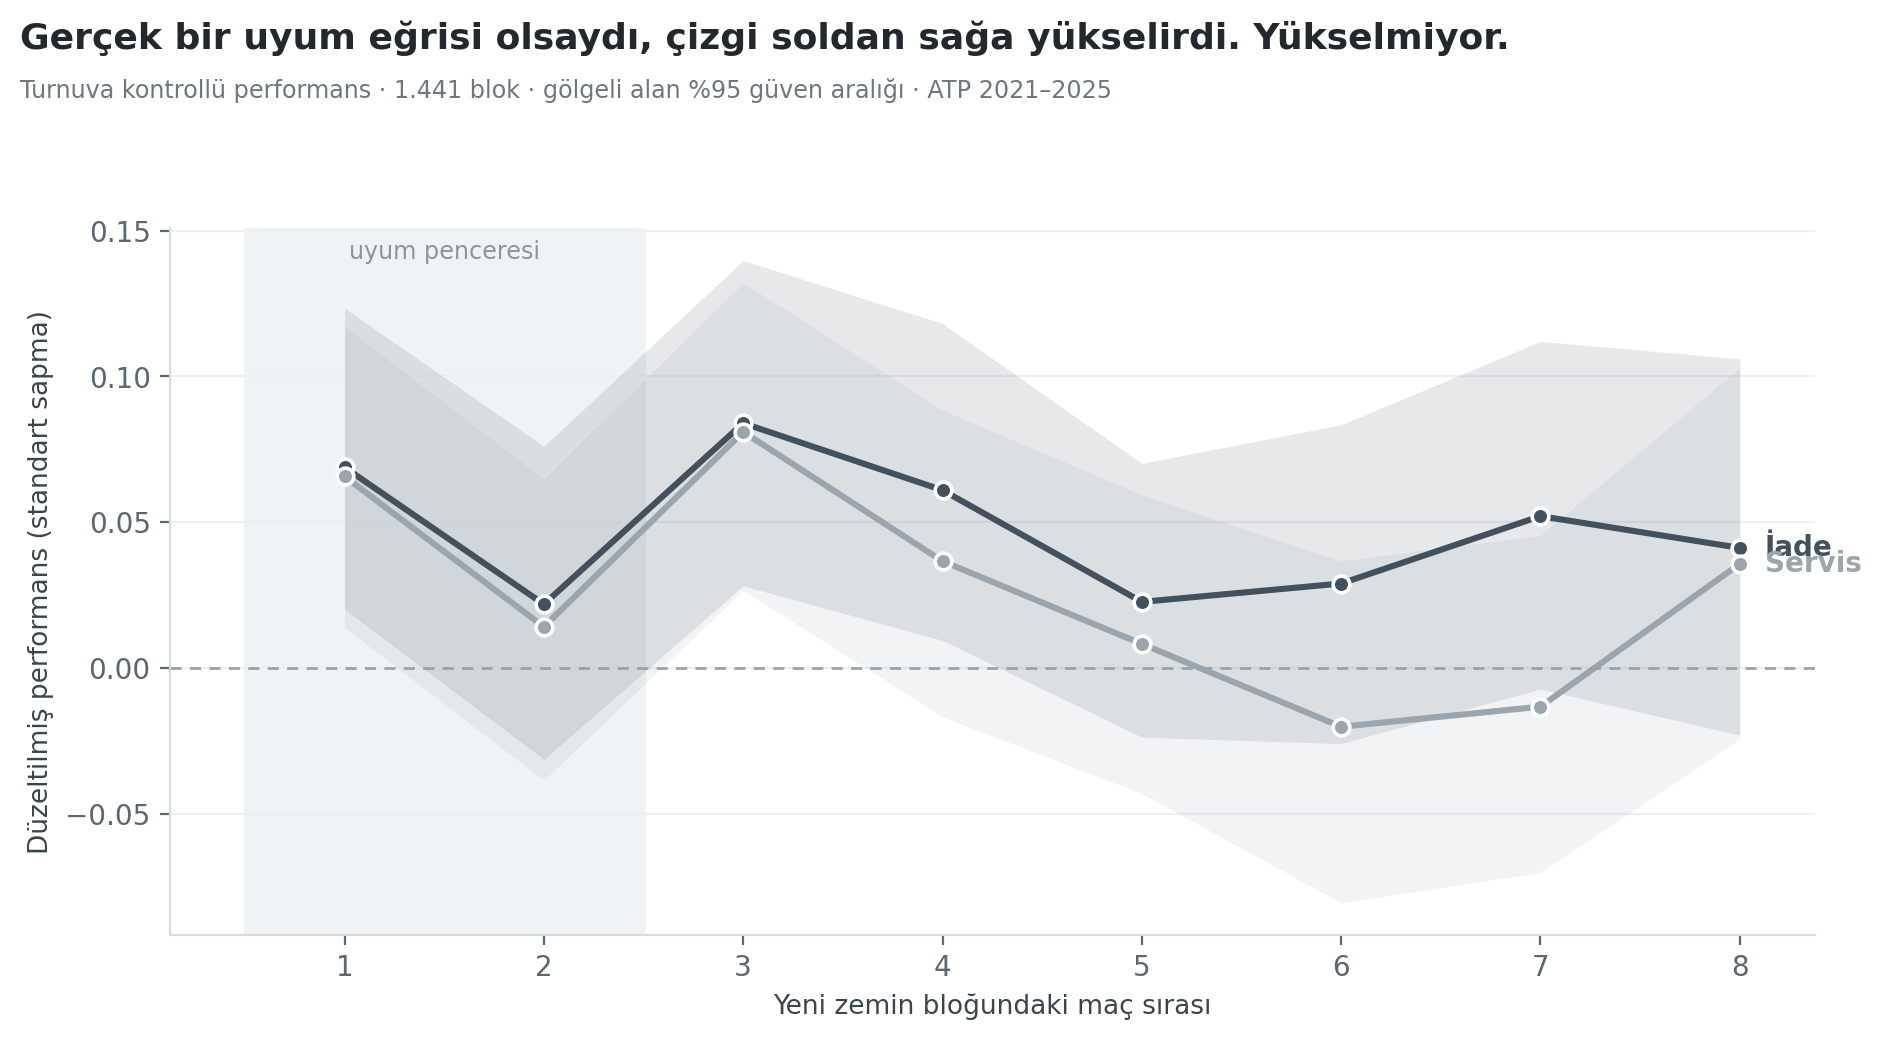
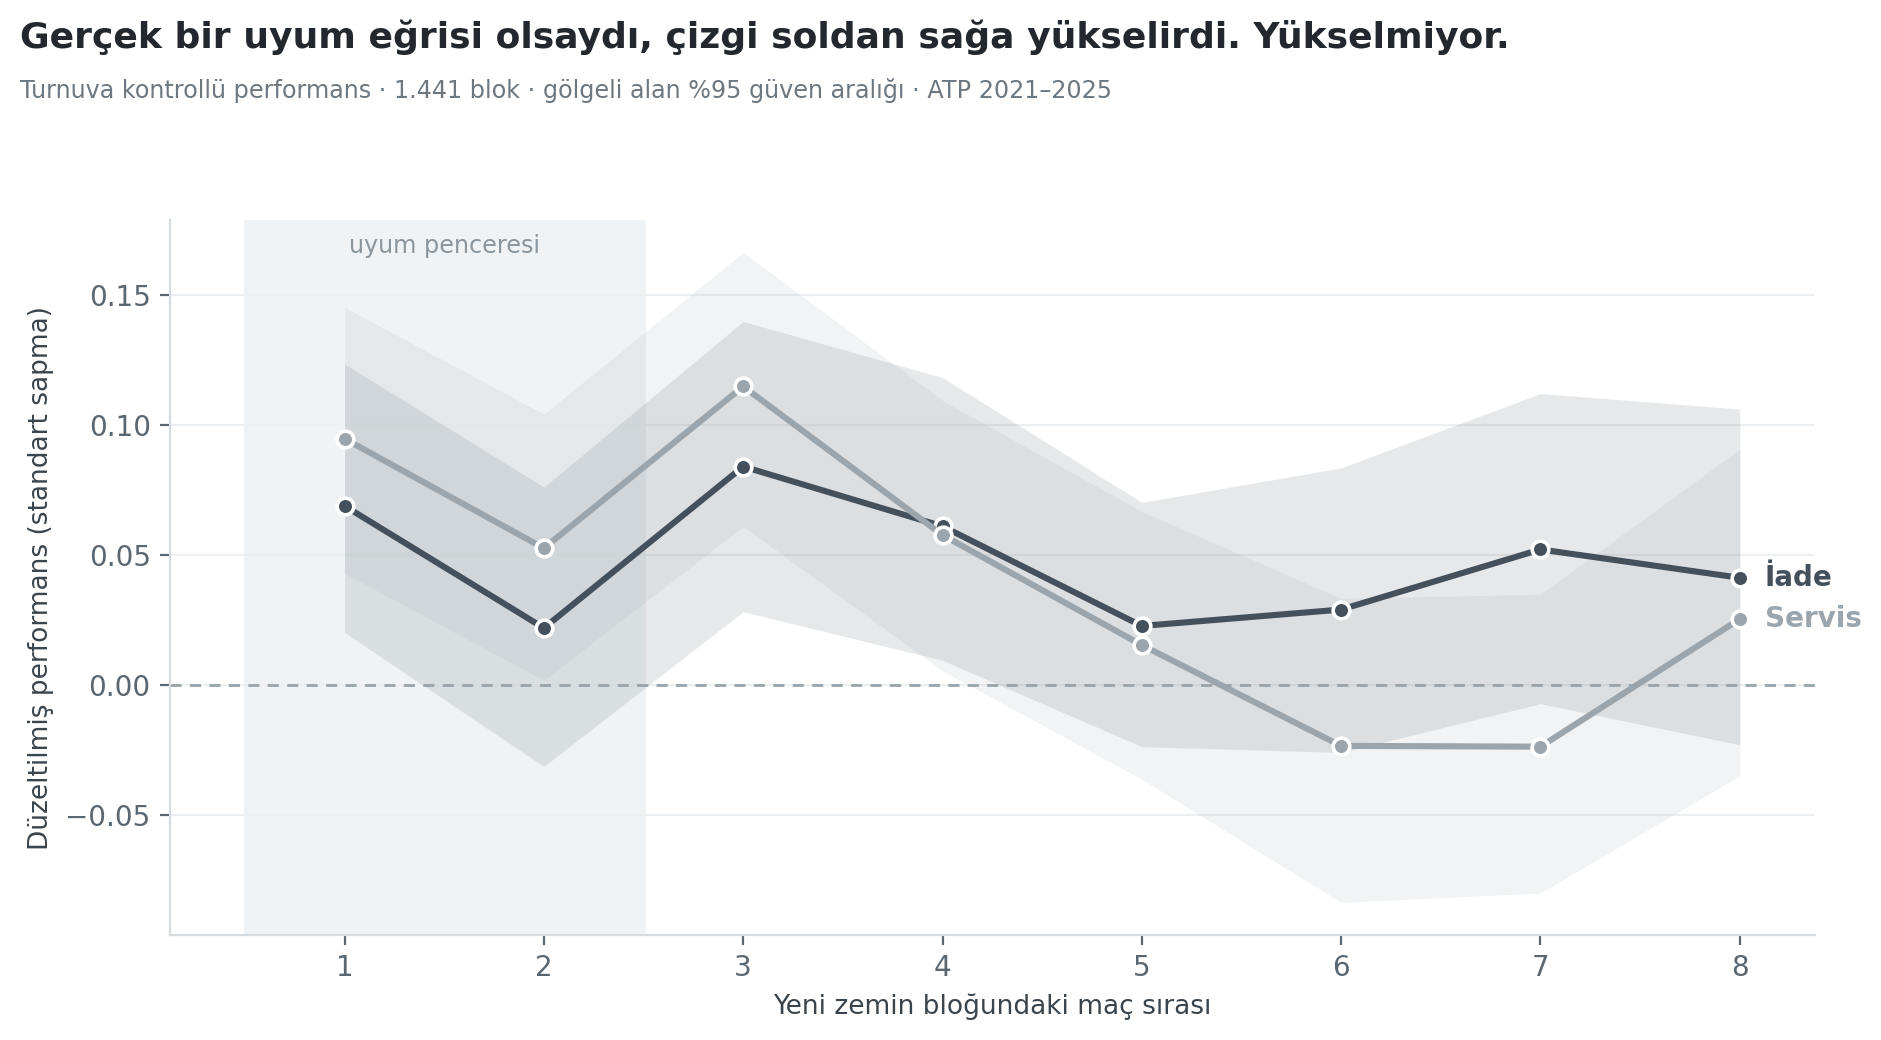
güncelleme

diff --git a/viz.py b/viz.py
@@ -184,55 +184,77 @@ def grafik3(g):
     plt.close(fig)
 
 
-if __name__ == "__main__":
-    g = pd.read_parquet(VERI / "atp_bloklar.parquet")
-    print("[8] Grafikler")
-    grafik1(g); grafik2(g); grafik3(g)
-
-
 # ============================================================
 # GRAFİK 4 — Blok algoritması tenis takvimini yeniden üretiyor
 # ============================================================
 
 def grafik4(d, oyuncular=("Carlos Alcaraz", "Novak Djokovic", "Alexander Zverev"), yil=2024):
     import matplotlib.dates as mdates
-    fig, ax = plt.subplots(figsize=(12.5, 4.6))
+    from matplotlib.patches import Patch
+
+    fig, ax = plt.subplots(figsize=(12.5, 4.4))
 
     for i, oy in enumerate(oyuncular):
         a = d[(d.oyuncu_ad == oy) & (d.yil == yil)]
         for _, gr in a.groupby("blok_id"):
-            bas, bit = gr.tarih.min(), gr.tarih.max()
-            if bas == bit:
-                bit = bas + pd.Timedelta(days=6)
-            renk = ZEMIN_RENK[gr.surface.iloc[0]]
-            ax.barh(i, (bit - bas).days + 6, left=bas, height=0.42,
-                    color=renk, edgecolor="white", linewidth=1.2)
+            bas = gr.tarih.min()
+            bit = gr.tarih.max() + pd.Timedelta(days=7)   # turnuva ~1 hafta sürer
+            ax.barh(i, bit - bas, left=bas, height=0.44,
+                    color=ZEMIN_RENK[gr.surface.iloc[0]],
+                    edgecolor="white", linewidth=1.4)
             n = int(gr.blok_boy.iloc[0])
-            if (bit - bas).days > 20:
-                ax.text(bas + (bit - bas) / 2, i, f"{n}", ha="center", va="center",
-                        color="white", fontsize=8.5, weight="bold")
+            if (bit - bas).days >= 21:
+                ax.text(bas + (bit - bas) / 2, i, str(n), ha="center", va="center",
+                        color="white", fontsize=9, weight="bold")
 
+    ax.set_xlim(pd.Timestamp(f"{yil}-01-01"), pd.Timestamp(f"{yil}-12-15"))
+    ax.set_ylim(len(oyuncular) - 0.5, -0.6)
     ax.set_yticks(range(len(oyuncular)))
-    ax.set_yticklabels([o.split()[-1] for o in oyuncular], fontsize=10.5)
-    ax.invert_yaxis()
+    ax.set_yticklabels([o.split()[-1] for o in oyuncular], fontsize=11)
     ax.xaxis.set_major_locator(mdates.MonthLocator())
     ax.xaxis.set_major_formatter(mdates.DateFormatter("%b"))
     ax.grid(axis="x", color="#EDF0F2", lw=0.8)
     ax.set_axisbelow(True)
-    ax.set_ylim(len(oyuncular) - 0.5, -0.7)
 
-    for renk, ad in [(CLAY, "Toprak"), (GRASS, "Çim"), (HARD, "Sert")]:
-        ax.bar(0, 0, color=renk, label=ad)
-    ax.legend(frameon=False, ncol=3, fontsize=9.5, loc="upper center",
-              bbox_to_anchor=(0.5, 1.12))
+    ax.legend(handles=[Patch(facecolor=CLAY, label="Toprak"),
+                       Patch(facecolor=GRASS, label="Çim"),
+                       Patch(facecolor=HARD, label="Sert")],
+              frameon=False, ncol=3, fontsize=9.5,
+              loc="upper center", bbox_to_anchor=(0.5, 1.13))
 
     fig.suptitle("Algoritmaya tek bir turnuva adı vermedim. Tenis takvimini kendi buldu.",
                  fontsize=13, x=0.011, ha="left", y=0.99, weight="bold")
-    fig.text(0.011, 0.905,
+    fig.text(0.011, 0.90,
              f"{yil} sezonu · her kutu bir “zemin bloğu”, içindeki sayı o bloktaki maç sayısı · "
-             "kural: zemin değişince yeni blok",
+             "kural: zemin değişince yeni blok başlar",
              fontsize=8.6, color="#6C7780")
-    fig.tight_layout(rect=[0, 0, 1, 0.86])
+    fig.tight_layout(rect=[0, 0, 1, 0.85])
     fig.savefig(GRAFIK / "4_sezon_takvimi.png", dpi=200, bbox_inches="tight")
     print("  ✓ 4_sezon_takvimi.png")
     plt.close(fig)
+
+
+# ============================================================
+# YARDIMCI — tüm blokları kur (grafik 4 filtrelenmemiş veri ister)
+# ============================================================
+
+def tum_bloklar(d, maks_bosluk=60):
+    d = d.sort_values(["oyuncu_id", "tarih", "tur_sira", "match_num"]).reset_index(drop=True)
+    zd = d.surface != d.groupby("oyuncu_id").surface.shift()
+    ua = d.groupby("oyuncu_id").tarih.diff().dt.days > maks_bosluk
+    yo = d.oyuncu_id != d.oyuncu_id.shift()
+    d["blok_id"] = (zd | ua | yo).cumsum()
+    d["blok_sira"] = d.groupby("blok_id").cumcount() + 1
+    d["blok_boy"] = d.groupby("blok_id").blok_sira.transform("max")
+    return d
+
+
+if __name__ == "__main__":
+    print("[8] Grafikler")
+    g = pd.read_parquet(VERI / "atp_bloklar.parquet")
+    grafik1(g)
+    grafik2(g)
+    grafik3(g)
+
+    hepsi = tum_bloklar(pd.read_parquet(VERI / "atp_rezidu.parquet"))
+    grafik4(hepsi)
